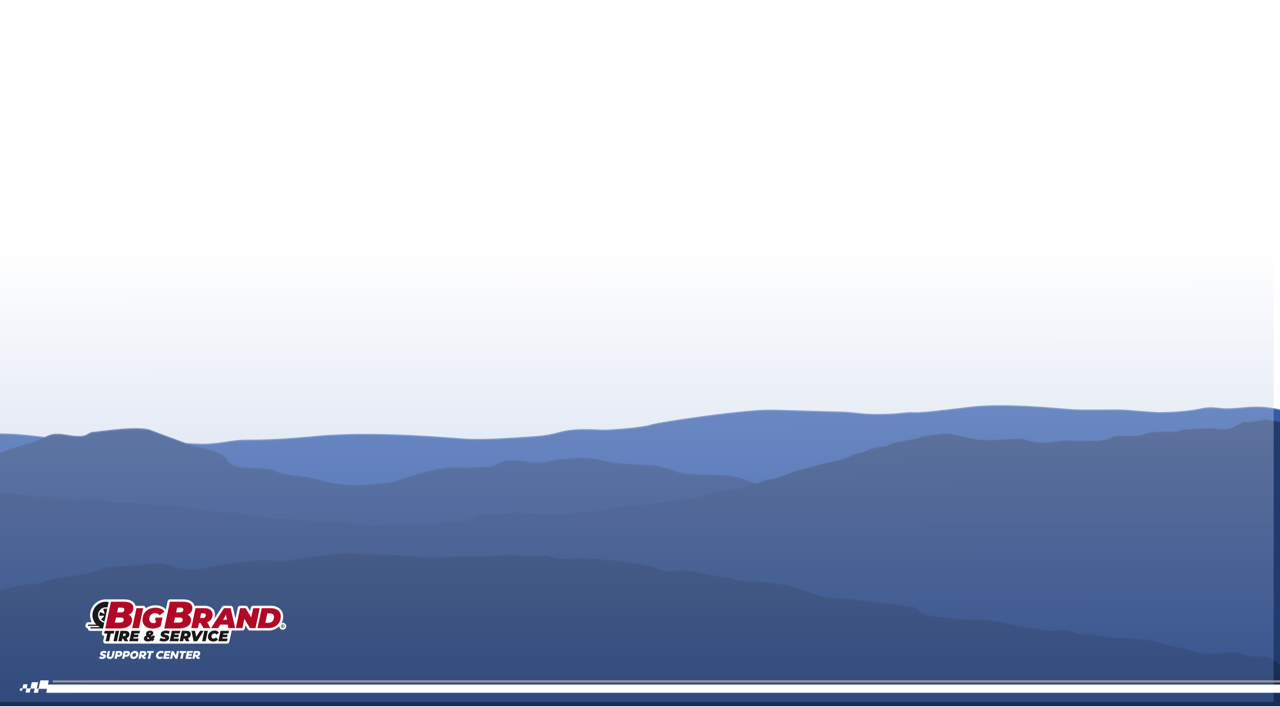
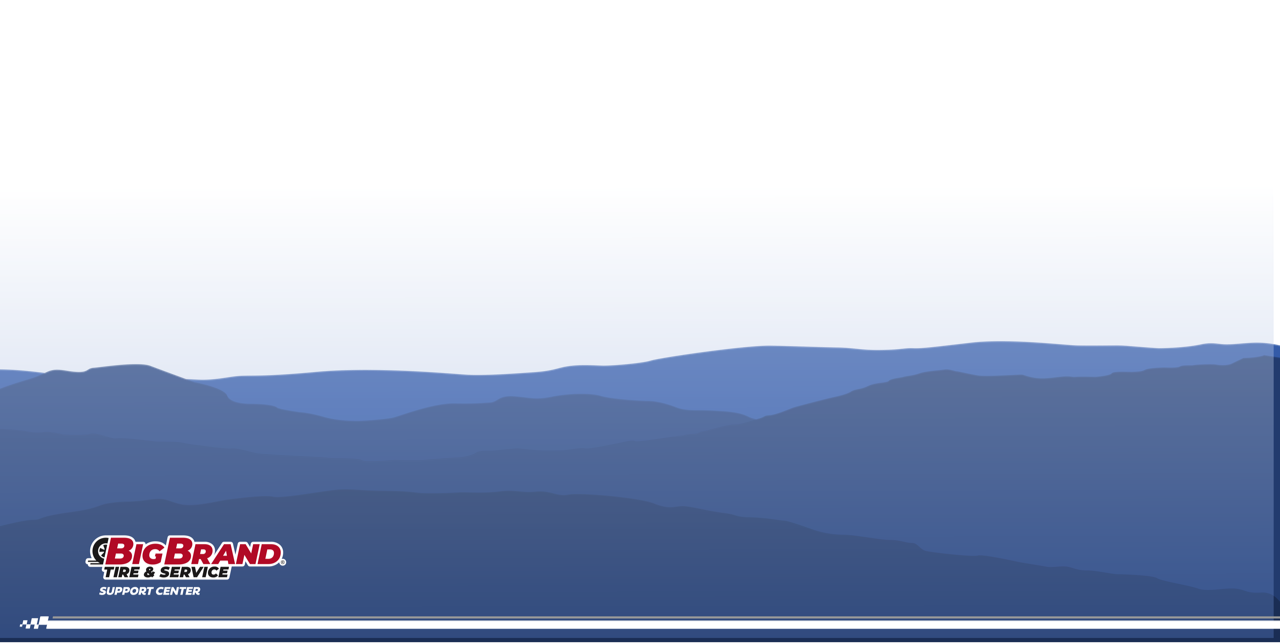
styled time and weather, added footer

Changed region(s): [[0.0, 0.5288, 1.0, 0.6843], [0.0, 0.8087, 1.0, 0.9953]]

diff --git a/src/components/Weather.js b/src/components/Weather.js
@@ -7,6 +7,8 @@ import "../weather.css";
 
 const Weather = () => {
   // initialize state
+  const [icon, setIcon] = useState("");
+  const [weatherCode, setWeatherCode] = useState("");
   const [weather, setWeather] = useState("");
   const [data, setData] = useState({
     isFetching: false,
@@ -28,17 +30,40 @@ const Weather = () => {
         console.log(response.data.data[0]);
         setData(response.data.data[0]);
         setWeather(response.data.data[0].weather.description);
+        setWeatherCode(response.data.data[0].weather.code);
       })
       .catch(err => {
         console.log(err);
       });
   }, []);
 
+  //  if (weatherCode === "200" || "201" || "202" || "230" || "231" || "232" || "230") {
+  //    setIcon("Thunder")
+  //  } else if (weatherCode === "300" || "301" || "302" || "500" || "501" || "511" || "520" || "502" || "521") {
+  //     setIcon("Rain")
+  //  } else if (weatherCode === "600" || "601" || "602" || "610" || "621" || "623" || "611" || "612") {
+  //     setIcon("Snow")
+  //   } else if (weatherCode === "700" || "711" || "721" || "731" || "741" || "751") {
+  //     setIcon("Mist")
+  //   } else if (weatherCode === "800") {
+  //     setIcon("Sun")
+  //  } else if (weatherCode === "801" || "802" || "803" || "804") {
+  //     setIcon("Few Clouds")
+  //   } else (weatherCode === "900") {
+  //     setIcon("Unknown Precipitation")
+  //   }
+
   return (
     <div className="weather">
       <WeatherSVG />
       <div className="weatherdiv">
-        <h1 className="temp">{data.temp}°</h1>
+        <div className="weathericon">
+          <p>{icon}</p>
+          <h1 className="temp">
+            {data.temp}
+            <span>°</span>
+          </h1>
+        </div>
         <h1 className="weathertext">{weather}</h1>
         <h1 className="cityname">{data.city_name}, CA</h1>
       </div>

diff --git a/src/App.css b/src/App.css
@@ -1,5 +1,7 @@
 .App {
+  width: 100%;
   text-align: left;
+  background-color: white;
 }
 
 .directory {
@@ -7,6 +9,7 @@
 }
 
 .directory h1 {
+  margin-top: 0;
   text-align: center;
   color: #383b69;
   font-size: 3.5em;
@@ -36,20 +39,25 @@
 }
 
 .bottom-div {
+  padding-top: 2em;
   display: flex;
+  align-items: center;
   justify-content: space-around;
+  background: url("./images/background.png");
+  background-size: cover;
+  padding-bottom: 20em;
+  width: 100%;
 }
 
 .bottom-div .time-date {
   color: #383b69;
-  background-color: lightgray;
 }
 
 .bottom-div .time-date .clock {
   font-family: fieldwork, sans-serif;
   font-weight: 700;
   font-style: normal;
-  font-size: 2.2em;
+  font-size: 2.7em;
 }
 
 .bottom-div .time-date .date {
@@ -58,6 +66,7 @@
   font-style: normal;
   display: flex;
   justify-content: center;
+  font-size: 1.2em;
 }
 
 .bottom-div .time-date .date .month {
@@ -70,6 +79,29 @@
 
 .bottom-div .weather {
   color: #383b69;
+  font-size: 1em;
+  display: flex;
+  text-align: center;
+}
+
+.bottom-div .weather .temp {
+  font-family: fieldwork, sans-serif;
+  font-weight: 700;
+  font-style: normal;
+  font-size: 2.7em;
+}
+
+.bottom-div .weather .temp span {
+  font-family: fieldwork-hum, sans-serif;
+  font-weight: 100;
+  font-style: normal;
+}
+
+.bottom-div .weather .cityname {
+  font-family: fieldwork-hum, sans-serif;
+  font-weight: 400;
+  font-style: normal;
+  font-size: 1em;
 }
 
 /* Fonts added:

diff --git a/src/App.js b/src/App.js
@@ -3,6 +3,7 @@ import Directory from "./components/Directory";
 import TimeDate from "./components/TimeDate";
 import Weather from "./components/Weather";
 import "./App.css";
+import background from "./images/background.png";
 
 class App extends React.Component {
   constructor(props) {
@@ -12,20 +13,14 @@ class App extends React.Component {
   render() {
     return (
       <div className="App">
-        <header>
-          <link
-            rel="stylesheet"
-            href="https://use.typekit.net/jqb5edi.css"
-          ></link>
-        </header>
         <Directory />
         <div className="bottom-div">
           <TimeDate />
           <Weather />
         </div>
-        <footer>
-          <img src="./images/background.png"></img>
-        </footer>
+        {/* <footer>
+          <img className="footer-image" src={background}></img>
+        </footer> */}
       </div>
     );
   }

diff --git a/public/index.html b/public/index.html
@@ -3,6 +3,10 @@
   <head>
     <meta charset="utf-8" />
     <link rel="icon" href="%PUBLIC_URL%/favicon.ico" />
+              <link
+            rel="stylesheet"
+            href="https://use.typekit.net/jqb5edi.css"
+          ></link>
     <meta name="viewport" content="width=device-width, initial-scale=1" />
     <meta name="theme-color" content="#000000" />
     <meta

diff --git a/src/components/ClockDigits.js b/src/components/ClockDigits.js
@@ -11,7 +11,7 @@ export class ClockDigits extends React.Component {
       number = number - 12;
     }
 
-    if (number < 10) {
+    if (this.props.minutes < 10) {
       number = "0" + number;
     }
     return number;
